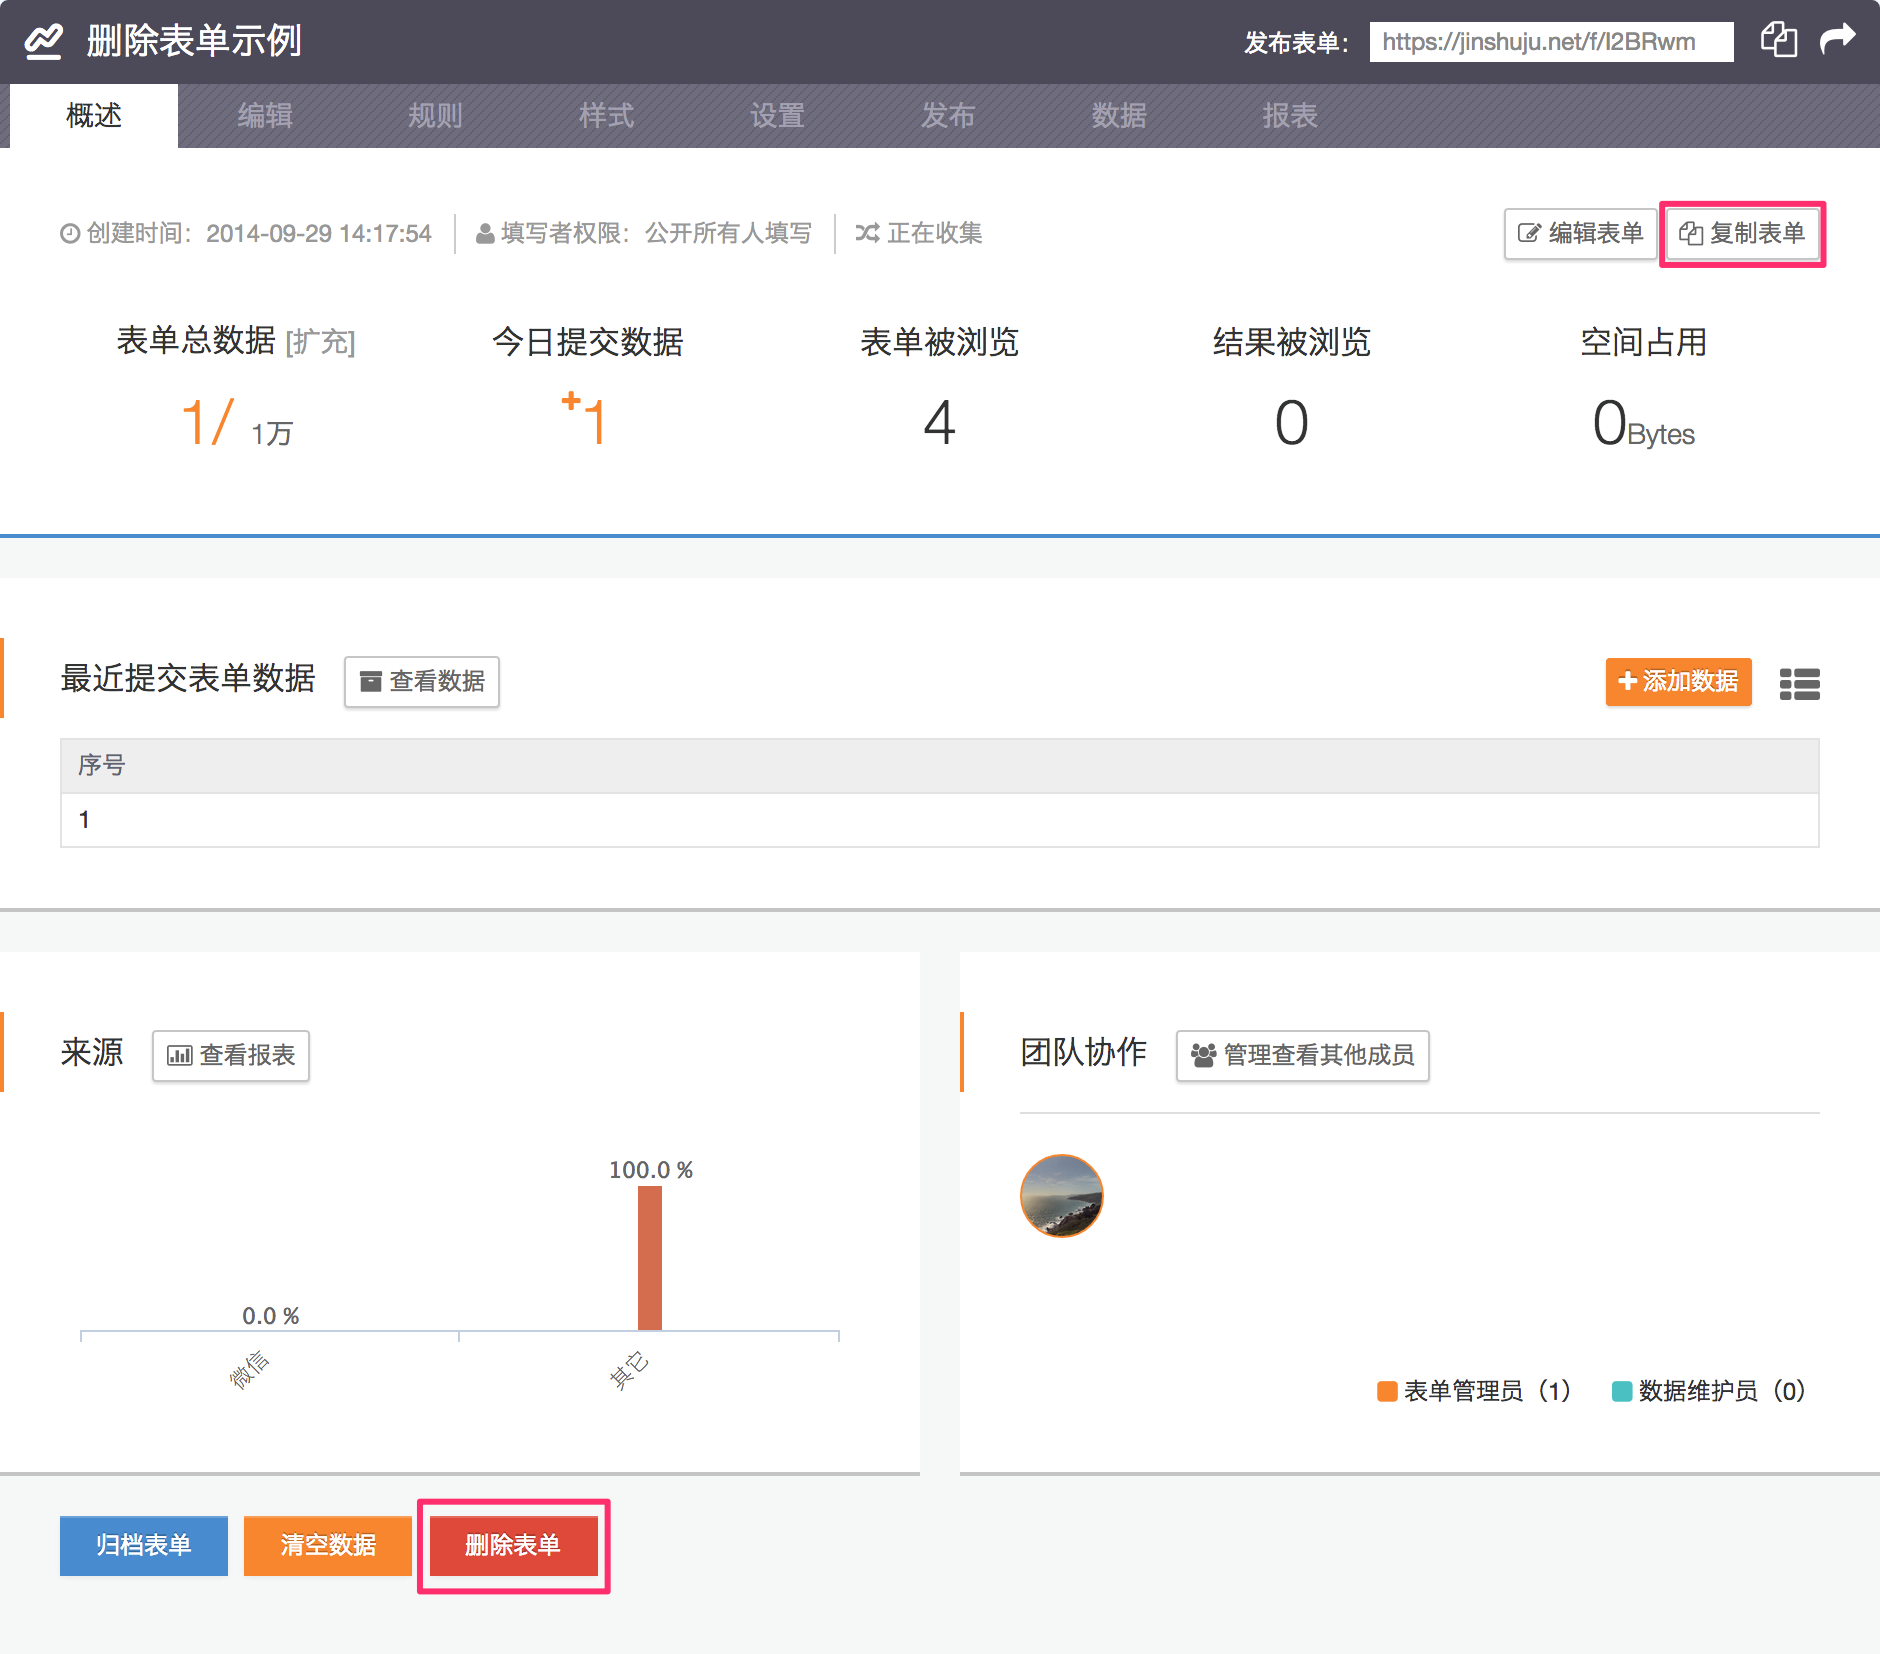
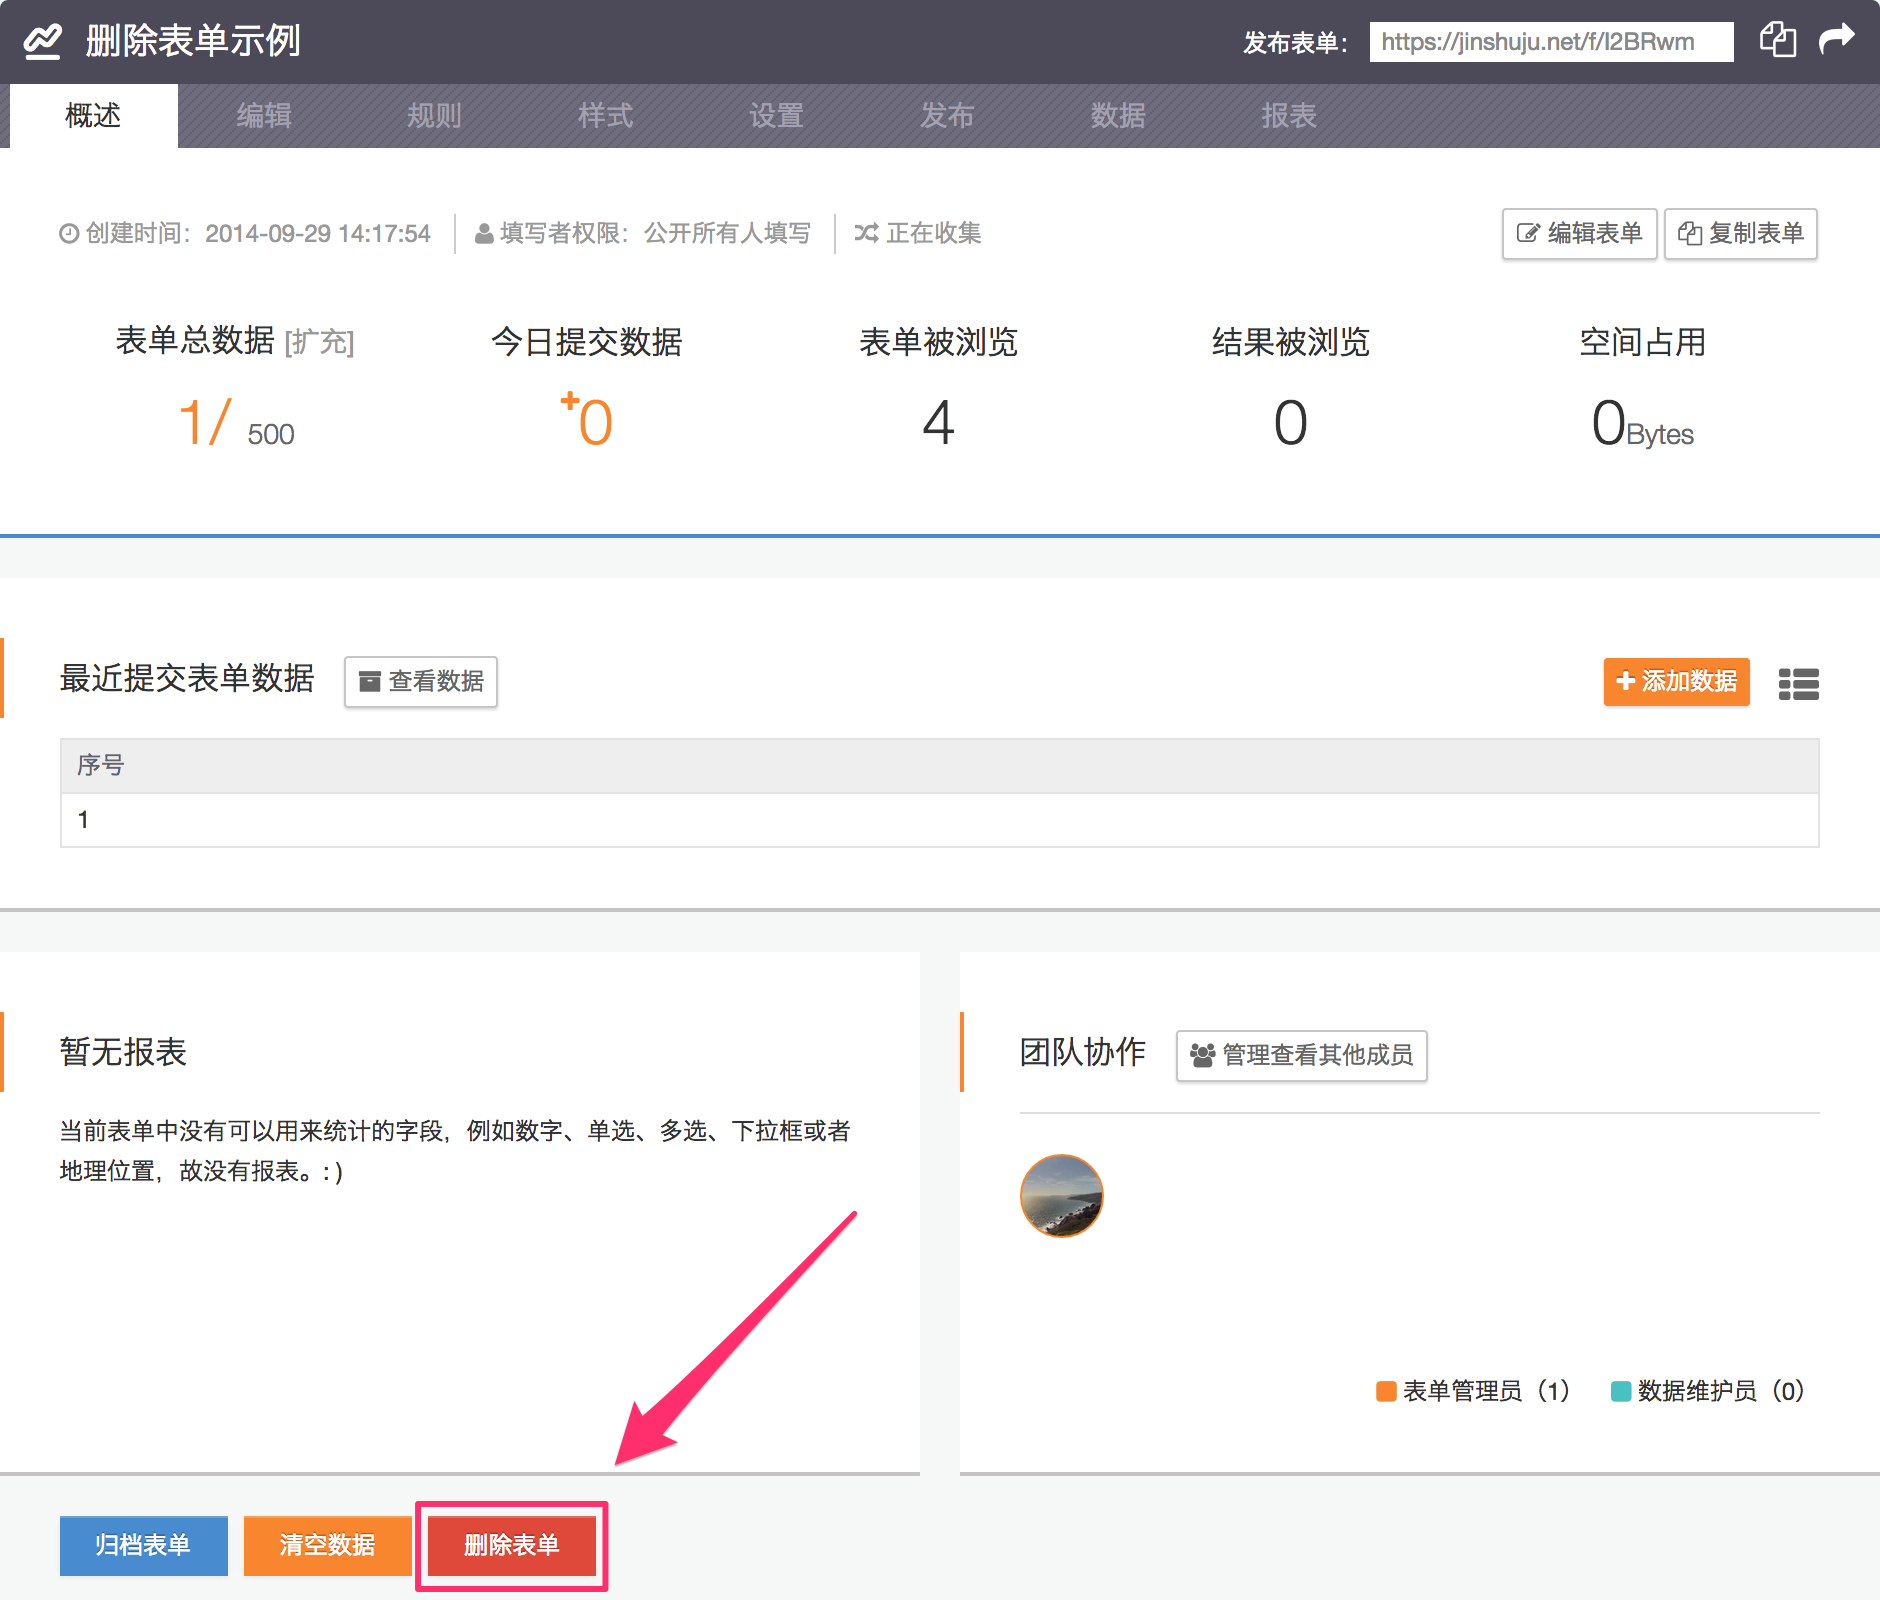
revise delete-form

diff --git a/_posts/2014-1-1-delete-form.md b/_posts/2014-1-1-delete-form.md
@@ -1,6 +1,6 @@
 ---
 layout: post
-title:  "删除和复制表单"
+title:  "复制和删除表单"
 date:   2014-09-26 12:00:05
 category: form
 tags: edited
@@ -8,21 +8,21 @@ tags: edited
 
 #####小金提示：金数据仅向您提供有偿的数据恢复业务，请对您的删除行为负责；复制表单时原表单的数据不会复制。
 
-### 删除表单
-
-当您不再需要某个表单，为了不让它占用存储空间和数据量，您可以删除它。
-
-1. 进入我的表单，找到需要删除的表单，进入表单的详情页面。
-	![删除表单](/images/delete-form-1.png)
-
-2. 在表单概述页面的左下角，点击“删除表单”按钮，您需要输入您的表单名以确认删除操作。
-	![删除确认](/images/delete-form-2.png)
-
 ### 复制表单
 
 如果当您想要做出和当前一模一样的表单时，您可以复制表单。
 
 1. 进入我的表单，找到想要复制的表单，进入表单的详情页面。
 
-2. 在表单概述页面的右上角，点击“复制表单”按钮。
+2. 在表单概述页面的右上角，点击**复制表单**按钮。
 	![复制表单](/images/delete-form-3.png)
+
+### 删除表单
+
+当您不再需要某个表单，为了不让它占用存储空间和数据量，您可以删除它。
+
+1. 进入需要删除的表单的 **概述** 页面，点击页面底部的 **删除表单** 按钮。
+	![删除表单](/images/delete-form-1.png)
+
+2. 您需要输入您的表单名以确认删除操作。
+	![删除确认](/images/delete-form-2.png)
